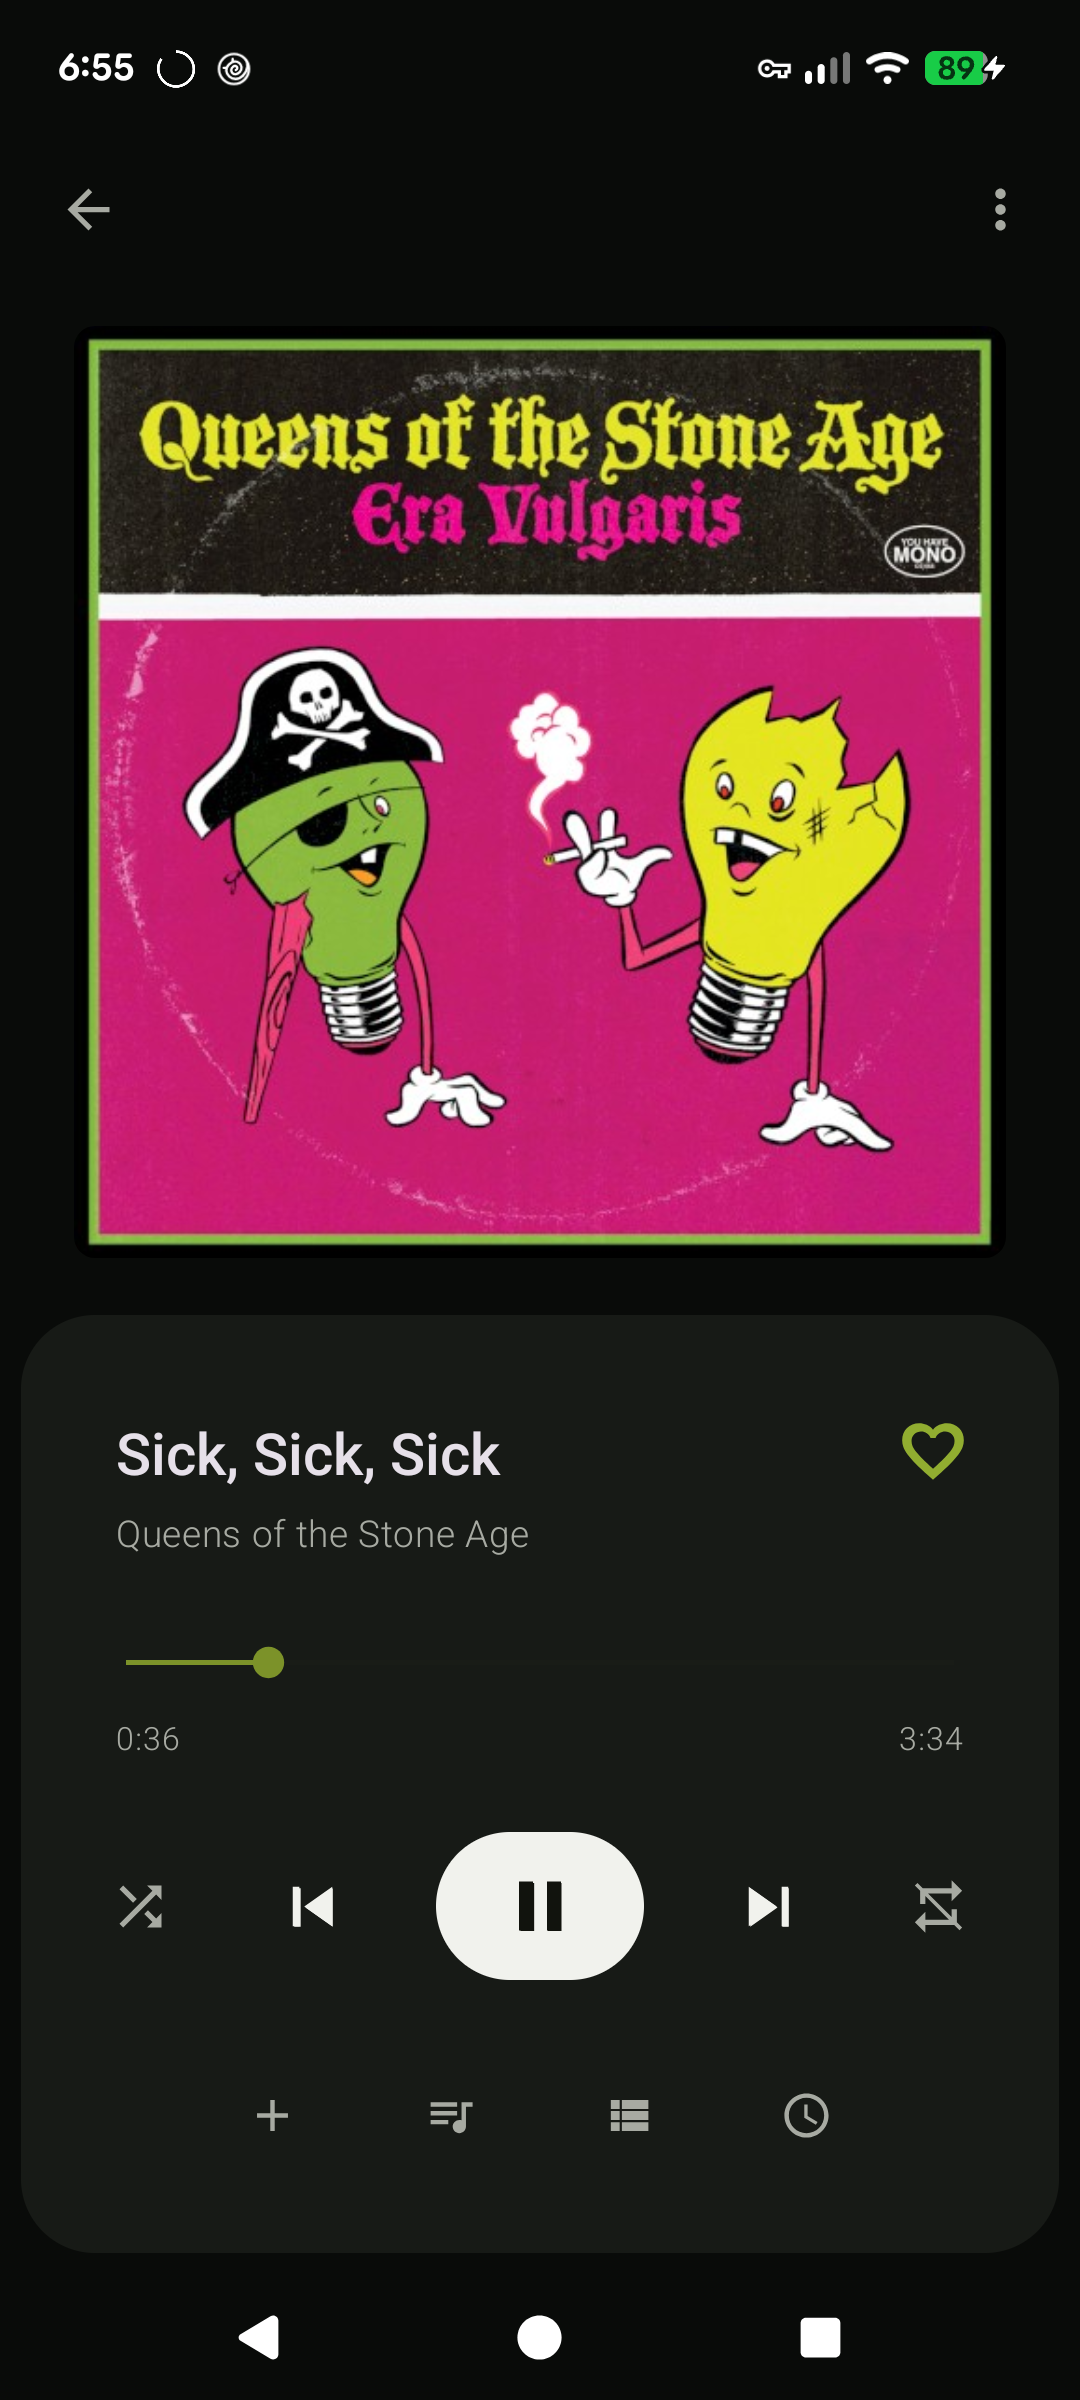
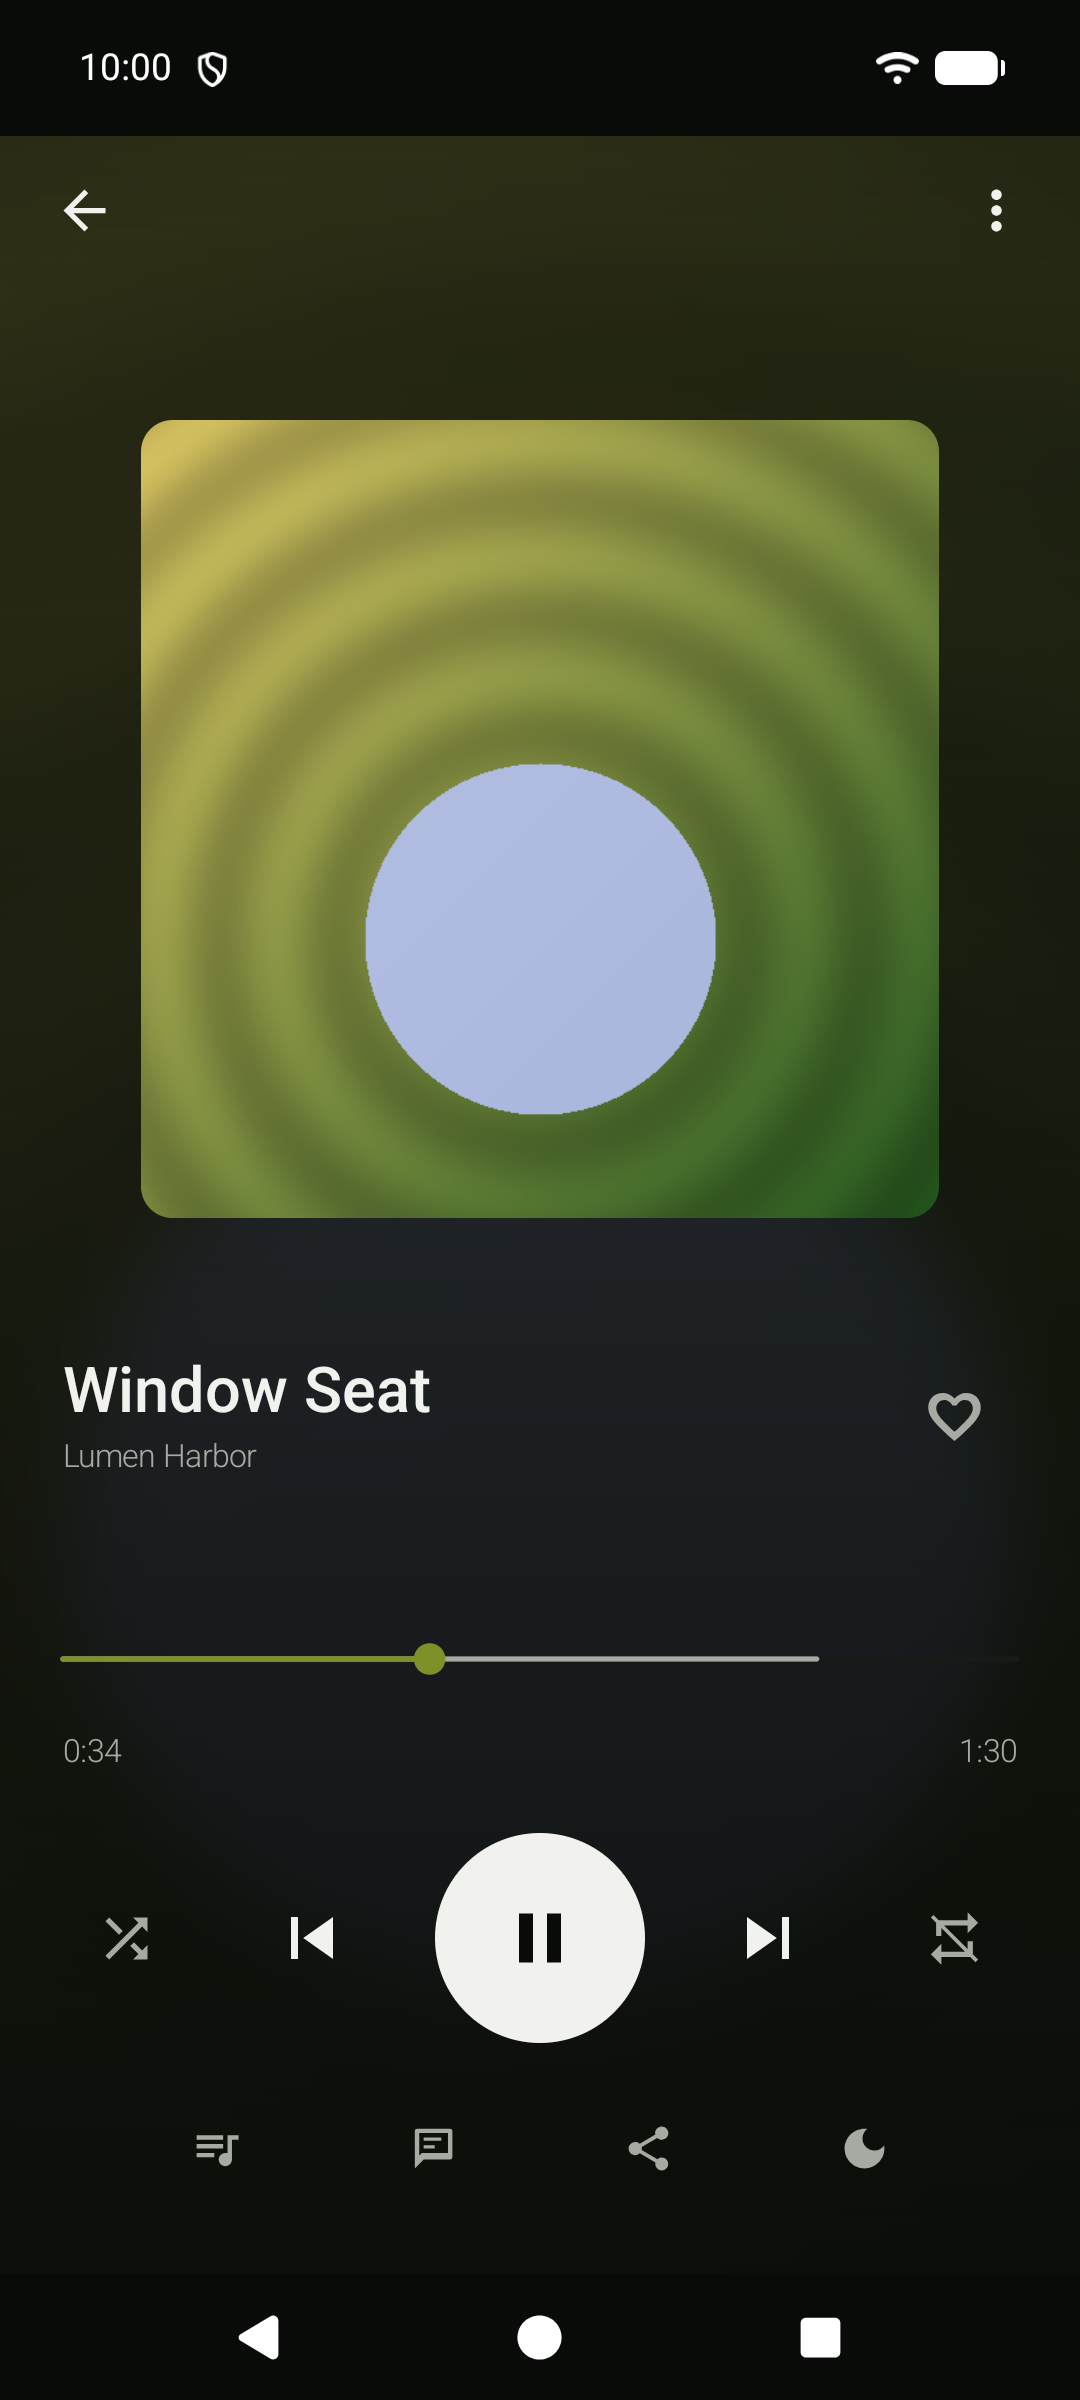
docs: beta.2 release candidate handoff; refreshed README screenshots (en-US, es-ES)
Adds the release-candidate report (APK hash, certificate continuity, emulator
131->132 upgrade evidence, Pixel backup verdict, issue status) and new real
emulator screenshots of the candidate using a fictional library. No app code
or version change.

diff --git a/docs/technical/TAKI_BETA2_RELEASE_CANDIDATE.md b/docs/technical/TAKI_BETA2_RELEASE_CANDIDATE.md
@@ -1,0 +1,154 @@
+# Taki 0.1.0-beta.2 release candidate
+
+Handoff report. **Nothing was tagged, released, uploaded or announced.** The signed APK and its checksum are in a
+private local staging folder outside the repository. Date: 2026-11-01.
+
+## 1. Artifact
+
+| Item | Value |
+|---|---|
+| Version | `versionName 0.1.0-beta.2`, `versionCode 132` (published beta.1 is 131) |
+| Package | `io.github.churipakinti.taki` (release; debug stays `.debug`) |
+| Type | single **universal** APK, `-PabiSplits` not used |
+| File | `taki-0.1.0-beta.2.apk` in the private staging folder, plus `SHA256SUMS.txt` |
+| Size | 30,340,341 bytes (28.93 MB) |
[1 lines of base64/hex data omitted]
+| Code SHA that produced it | **`e26349ed`** (`develop`); later commits only add documentation and screenshots (no file under `ultrasonic/src/main`, resources or Gradle changed), so they do not affect the APK |
+| ABIs | `arm64-v8a`, `armeabi-v7a`, `x86`, `x86_64` |
+| minSdk / targetSdk | 26 / 37; not debuggable |
+| Signature | APK Signature Scheme v2, one signer, `CN=Taki Release, OU=Taki Android, O=Taki, C=US` |
[1 lines of base64/hex data omitted]
+| Contents check | 992 entries; no keystore, secret or test fixture; the `*.properties` entries are standard library/Gradle metadata |
+
+The published APK must be **this exact file**; recompute the SHA-256 before uploading.
+
+## 2. Automated gates (on the code commit `e26349ed`)
+
+| Gate | Result |
+|---|---|
+| Unit tests | 1948, 0 failures, 0 errors |
+| `lint` | no new issues (59 errors / 4 hints filtered by the baseline) |
+| `assembleDebug`, `assembleRelease` | successful |
+| Detekt (`-Pqc detekt`) | 43 findings = the documented baseline (42+1); informational, not a CI gate |
+| Test fixed along the way | `ReleaseHygieneInvariantsTest` pinned the beta.1 `versionName`; it failed on the authorized bump and now pins `0.1.0-beta.2` and `versionCode 132` (test-only change, commit `e26349ed`) |
+| GitHub Actions | see section 9 |
+
+## 3. Emulator validation (isolated AVD, fake Subsonic server, no real server)
+
+| Test | Result |
+|---|---|
+| **Upgrade 131 -> 132 from the published beta.1 APK** | `adb install -r` of the staging APK: success; first-install time unchanged; no onboarding; queue (5), item and position (4014 ms) identical; then play, Next, seek (to 72.6 s), pause all worked; 0 crashes |
+| **Upgrade 131 -> 132 from the exact build installed on the owner's Pixel** (the local 30 MB `0.1.0-beta`/131 build, same certificate) | success; queue of 30 and position 3937 ms preserved; plays; 0 crashes. This is a rehearsal of the Pixel update without touching the Pixel |
+| Clean install of the candidate | opens on "Add library", connects, plays; 0 crashes |
+| Share Card | tapping Share generated the PNG and Android's "Sharing image" sheet showed the card preview; playback continued; 0 crashes |
+
+Note: the emulator has no audio device, so audibility is not claimed; Instagram and WhatsApp are not installed on it.
+A first beta.1 run crashed with `Permission denied` creating a cover file because a leftover external-storage folder
+from my own earlier uninstall belonged to an old user ID. That is an emulator artifact, not an app defect (cleaned
+and not reproduced); it does show that an unwritable external folder can crash cover-art loading, which is
+rare and left as a `POST_BETA` note.
+
+## 4. Pixel 7 release install: update NOT performed
+
+| Item | Value |
+|---|---|
+| Device | Pixel 7, serial `2B191FDH200E36`, Android 17; every command used `-s` |
+| Release package | `io.github.churipakinti.taki`: `versionCode 131`, `0.1.0-beta`, installed 2026-10-18, signature `CN=Taki Release`, certificate `66b7c716…7125` (APK pulled read-only and verified), not debuggable |
+| Debug package | `io.github.churipakinti.taki.debug`: separate, untouched in this task |
+| Update path | the candidate is signed with the same certificate and its `versionCode` rises 131 -> 132, so `install -r` would be accepted |
+
+**Backup verdict: no verifiable backup of the release app's private data exists, so I did not update it.**
+
+- `run-as` is refused (`package not debuggable`), so the private directory cannot be copied.
+- `adb backup` does not give a reliable result on modern Android for an app that targets API 37.
+- System backup (`bmgr`, Google transport) is by design incomplete: Taki **excludes its server/credentials database
+  from backup and device transfer**, and the saved queue/equalizer from transfer. A system backup could therefore never
+  restore the configured server, and it would be unverifiable from a computer anyway.
+- The app's external folder (about 7 MB) holds covers and cache only; no large downloads for the release package.
+- Switching the global backup transport to the local transport would change a system setting and still could not be extracted without root.
+
+I did not try root, exploits or credential extraction. Because no recoverable, verifiable backup exists, the stop
+condition applies and the release package on the Pixel is unchanged (`PIXEL_RELEASE_UPDATE_PERFORMED = NO`).
+
+What is at stake if you choose to update anyway: the configured server, preferences, saved queue and equalizer of
+the **release** package (re-creating them means re-entering the server address, user and password). Evidence that
+the update itself is safe is in section 3 (the same build, upgraded on an emulator with its queue intact), and the
+same code ran physically as a debug build in #36. **Decision for you:** (a) accept updating the Pixel release
+package in place without a backup, knowing the worst case is re-adding the server; or (b) leave the Pixel as is and
+run the physical release smoke on a spare device. I will not choose for you.
+
+## 5. Physical release smoke (section "Phase 7")
+
+Not run on the signed release APK, because the Pixel was not updated. Status per area:
+
+| Area | Release APK on a phone | Related evidence |
+|---|---|---|
+| Playback, screen off, lock-screen controls | NOT_TESTED | #36 Pixel 7 on the same code as a debug build; emulator smoke on the release APK |
+| Real swipe-away | NOT_TESTED | #36 Pixel 7 (debug); emulator Recents behavior |
+| Bluetooth | NOT_TESTED | #36 Pixel 7 (debug) |
+| Offline with downloads | NOT_TESTED | #36 Pixel 7 (debug) |
+| Share Card to Instagram / WhatsApp | NOT_TESTED here | owner confirmed both work; emulator shows the share sheet and preview |
+| Stability | emulator: 0 crashes | #36: 0 interruptions |
+
+The one thing the debug runs cannot prove is behavior that depends on R8 minification and release signing. The
+emulator smoke of the minified release APK covers startup, sign-in, playback, notification, the foreground
+service, update and the share sheet; a physical release pass remains the open check.
+
+## 6. Issues
+
+| Issue | Status |
+|---|---|
+| #15 album star | **closed** with evidence (implementation, tests, Feishin interop verified earlier) |
+| #20 Share Card | **closed** with evidence (implementation, FileProvider and share sheet verified on the RC, owner confirmed Instagram and WhatsApp) |
+| #22 album list does not reload after a folder change | **open**, `POST_BETA`: the code documents it as a known gap; the selector changes, the page does not reload; only matters with several music folders; no crash, no wrong data; pull-to-refresh is the workaround. Not exercised live because the fake server has one folder |
+| #35 degraded Wi-Fi | open, residual risk accepted for the beta |
+| #37 resumption card | open, `POST_BETA` (cosmetic) |
+| #41, #42, #44, #23, #24, #12, #13, #14 | open, post-beta |
+
+No `RELEASE_BLOCKER` found.
+
+## 7. Documentation and screenshots
+
+- `ultrasonic/build.gradle`, `CHANGELOG.md` (`0.1.0-beta.2` section plus an empty `[Unreleased]`),
+  `fastlane/.../changelogs/132.txt` in **en-US and es-ES**.
+- README screenshots are **new real captures from the release candidate** on an emulator with a fictional library
+  (artists such as "Lumen Harbor", generated cover art, no real server data), 1080x2400, same order as before:
+  Home, Library, Album, Now Playing, Search. The Spanish set (`es-ES`) was refreshed the same way. The emulator
+  status bar was fixed to 10:00 with full battery. No code was changed for visuals.
+
+## 8. Accepted limitations and publication risks
+
+- **#35:** playback on a Wi-Fi that stays connected but carries no data may recover slowly; not verified on hardware.
+- **#37:** a dimmed Android resumption card after Taki stops; Play on it works; a ~0.3 s wrong-title flash on resume.
+- Release APK is 28.9 MB (universal). A per-ABI APK would be 11.5 MB (arm64) but needs a versionCode scheme; deferred.
+- The physical **release** pass is pending (section 5); the emulator and debug evidence cover everything except R8/signing-specific behavior on a real phone.
+- Cleartext HTTP and user CAs are allowed on purpose for self-hosted servers (same as beta.1).
+- Risk on publication: if the owner uploads a rebuilt APK, its SHA-256 will differ; upload the staged file.
+
+## 9. CI
+
+The GitHub Actions run on the code commit `e26349ed` finished green. Commits that follow are documentation and
+screenshots only and re-run the same job.
+
+| Run | Result |
+|---|---|
+| `e26349ed` | **success** (run 41369053865): tests, lint, debug and release builds, debug-APK upload |
+
+## 10. Recommendation
+
+```text
+READY_FOR_RELEASE_CANDIDATE = YES   (signed, versioned, verified APK; 131 -> 132 update proven on emulator)
+READY_TO_PUBLISH            = NO    (needs: CI green on the final commit, and your decision on the Pixel
+                                     physical release pass: update without backup, or use a spare device)
+PUBLIC_BETA_READY           = NO
+```
+
+## 11. Steps to publish (all need your approval)
+
+1. Decide the Pixel question in section 4 and, if you choose to, run the physical checklist on the staged APK.
+2. Confirm CI is green on the latest `develop`.
+3. Re-verify the staged APK: `apksigner verify --print-certs` (certificate `66b7c716…7125`) and its SHA-256 equals the value in section 1.
+4. Create the tag `v0.1.0-beta.2` on the tested commit and the pre-release, with the release notes from
+   `docs/technical/TAKI_BETA_RELEASE_GATES_REVIEW.md` section 9 (update the size to ~29 MB), the staged APK renamed
+   `taki-0.1.0-beta.2.apk`, and `SHA256SUMS.txt`.
+5. Post the community message after the release exists.
